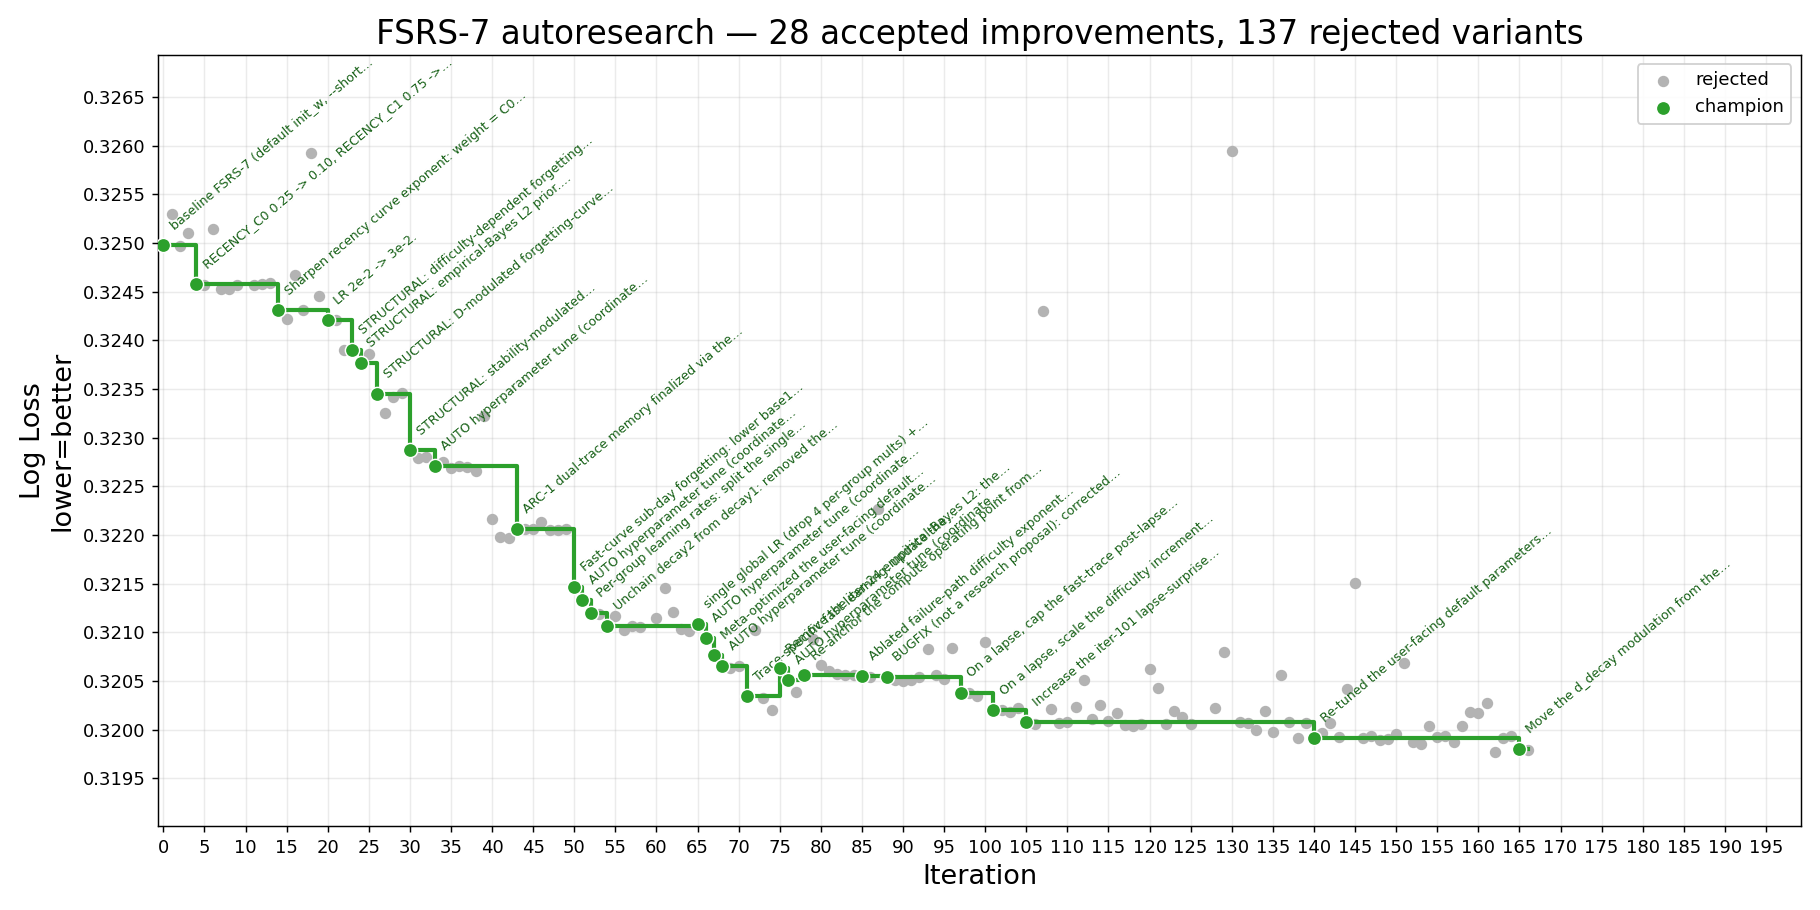
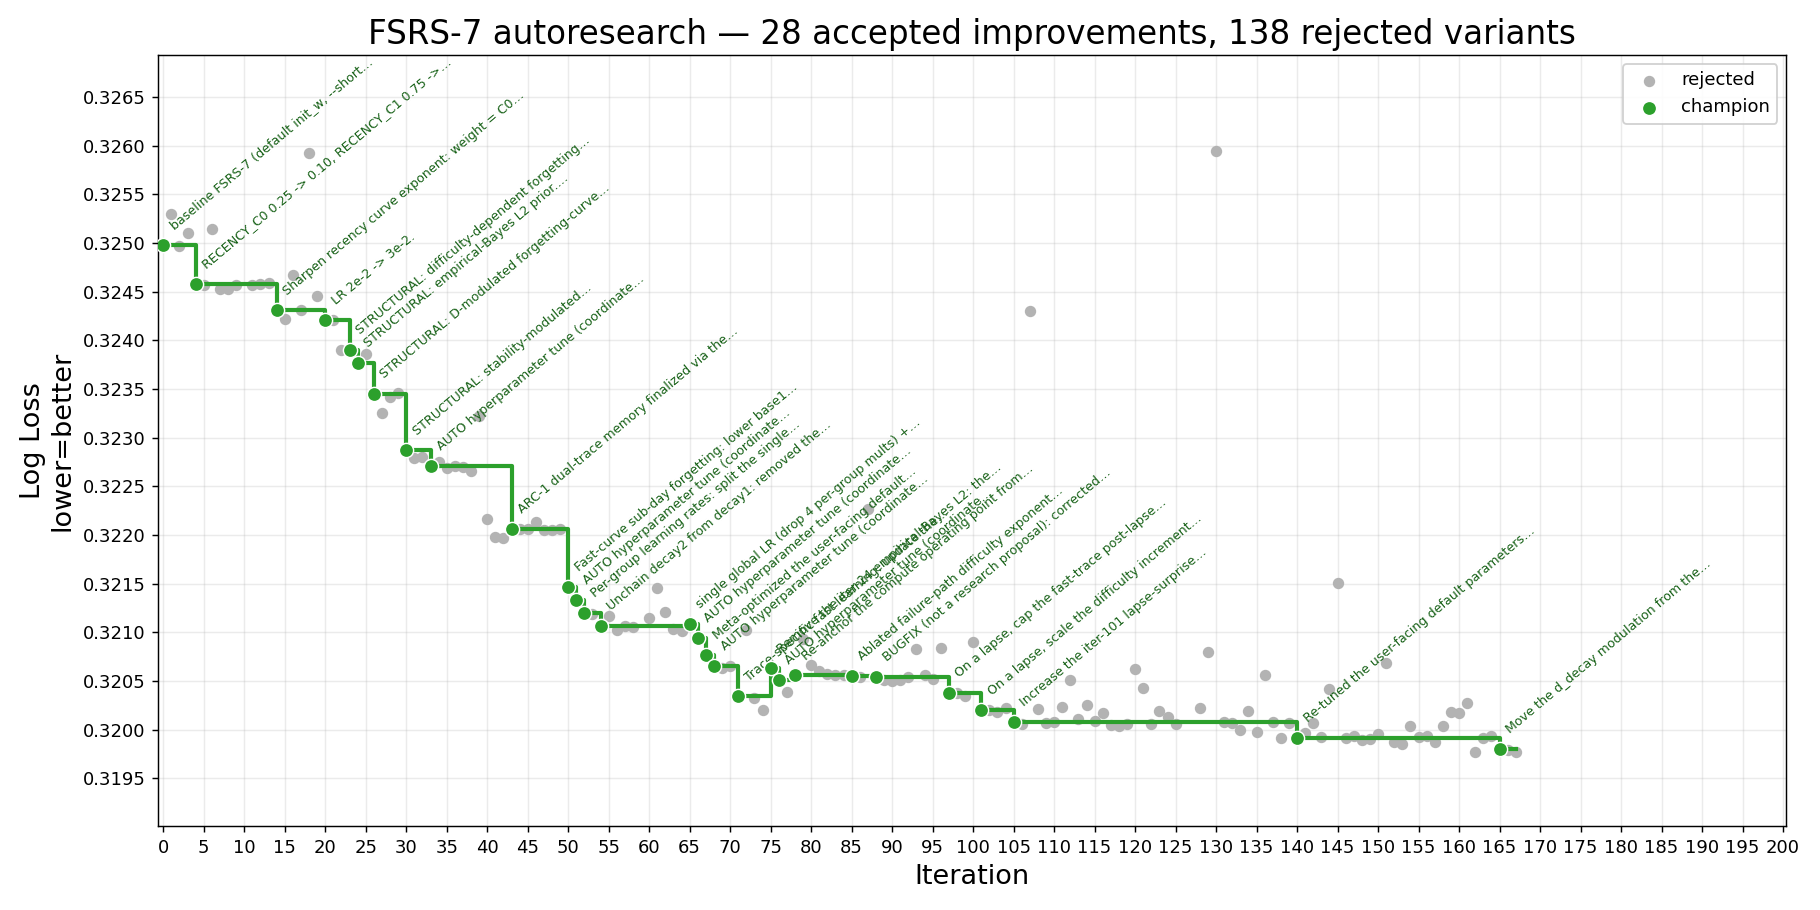
iter-167 (rejected): unified difficulty clock (d_timescale on both traces)
Apply the iter-165 d_timescale to the short component r1 as well as long r2
(reuses d_decay, 0 new params). vs iter-165: by_user 0.31980351 -> 0.31976500
(+3.85e-5, sub-threshold). Short trace wants some d-timescale (Again -7.5e-4)
but the shared d_decay compromises long/short and the success side pays. A
decoupled +1-param version can't clear 0.0002. Reverted; champion stays iter-165.

diff --git a/result/history.md b/result/history.md
@@ -1,6 +1,6 @@
 # FSRS-7 autoresearch — iteration history
 
-_166 record(s). Generated from `history.jsonl` — do not edit by hand._
+_167 record(s). Generated from `history.jsonl` — do not edit by hand._
 
 | # | Time (UTC) | Thresh. | LL before | LL after | Δ LL | Cx before | Cx after | Δ Cx % | Status | Summary |
 |--:|---|---:|---:|---:|---:|---:|---:|---:|---|---|
@@ -170,3 +170,4 @@ _166 record(s). Generated from `history.jsonl` — do not edit by hand._
 | 164 | 2026-06-07T13:10:11 | 0.0001 | 0.31991 | 0.31993 | -0.00001 | 16,932 | 16,933 | +0.01% | rejected | Replace the exponential d_decay modulation of decay2 with a linear factor: decay2*(1+(d_decay-0.3)*(d-5)) (was decay2*exp(...)). |
 | 165 | 2026-06-07T13:15:35 | 0.0001 | 0.31991 | 0.31980 | +0.00011 | 16,932 | 16,938 | +0.04% | accepted | Move the d_decay modulation from the long-decay exponent to the curve's time-scale: r2 sees t*exp((d_decay-0.3)*(d-5)) (decay2 no longer d-modulated). |
 | 166 | 2026-06-07T13:24:22 | 0.0001 | 0.31980 | 0.31979 | +0.00001 | 16,938 | 16,938 | +0.00% | rejected | Widen d_decay (w[32]) upper bound 0.6 -> 0.9 (effective coef +0.3 -> +0.6); 5.6% were pinned at the bound in the iter-165 champion. |
+| 167 | 2026-06-07T13:31:19 | 0.0001 | 0.31980 | 0.31977 | +0.00004 | 16,938 | 16,940 | +0.01% | rejected | Apply the iter-165 d_timescale exp((d_decay-0.3)*(d-5)) to the SHORT component r1 too, not just long r2 (unified difficulty clock; reuses d_decay, 0 new params). |
